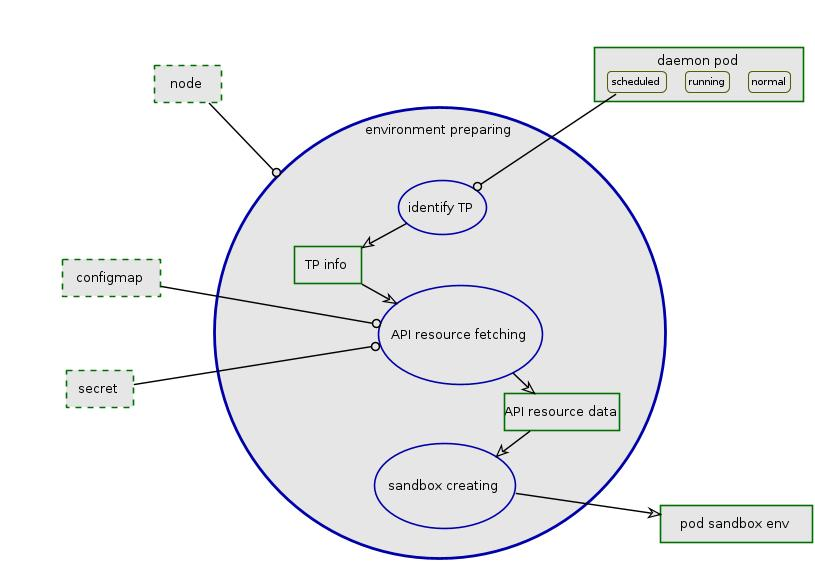
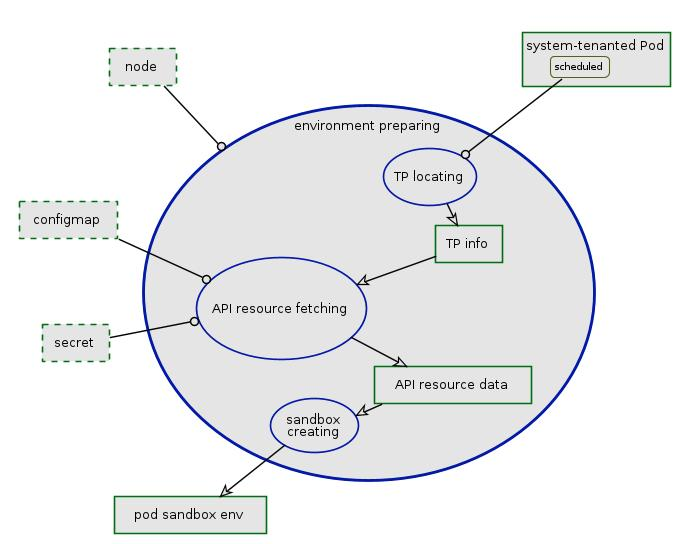
doc: system-tenant pod design

Changed region(s): [[0.0, 0.0312, 1.0, 1.0], [0.1504, 0.0625, 0.3009, 0.25], [0.361, 0.6562, 0.4513, 0.6875]]

diff --git a/docs/design-proposals/arch/system-tenant-pod.md b/docs/design-proposals/arch/system-tenant-pod.md
@@ -1,0 +1,89 @@
+# System-tenanted Pods in Arktos
+
+System-tenanted pods are pods that are of the special tenant, "system". These pods are typical for cluster infrastructual or management tasks.
+
+Due to the nature Arktos being a multiple-tenanted system, DaemonSet is only allowed in system tenant; only cluster admin is permitted to create/delete/update DaemonSet resources. DaemonSet pods are system-tenanted, too.
+
+This document describes what parts of Arktos need to have to support system-tenanted pods. 
+
+## What is not covered yet
+At this stage of Arktos, PVC/PV for storage volume is not fully supported - out of scope of this design.
+
+Analysis of the impact caused by adding/removing TP from scale-out system is not in its scope, either.
+
+## System-tenanted Pods
+In case of the tenant partition that manages system-tenanted resources fails, other tenant partitions, if applicable, are available for cluster admin to manage the resources of system tenant; the resources previously managed on the failed TP may not be updated, system functionality being degraded. There is possibility to recover the affected resoures to functioning TP, but it is out of our current design interests.
+
+Arranging system-tenant Pod and its supporting resources within the unit of TP as depicted above does not put unnecessary constraint of how system tenant being managed across TPs. Whether Arktos scale-out chooses to have multiple TPs with each being able to manage its own system tenant resources, or to have a single dedicated Partition for system tenant resources likely enhanced by some sort of HA, this design stands - as long as system-tenanted Pod and its supporting API resources are managed by the same TP.
+
+
+## System-tenanted Pods in Scale-up Arktos
+Scale-up Arktos has single master; system-tenanted Pods are supported.
+
+## System-tenanted Pods in Scale-out Arktos
+[Scale-out Arktos](arktos_scale_out.md) may have multiple tenant partitions and resource partitions; each of them has master components including API Server, controller manager, etc.
+
+System-tenanted Pods, like other resources, are named within the boundary of individual tenant server; it is possible for two or more pods have same tenant-namespace-name, which would confuse kubelet to have problem managing them.
+
+Usually a Pod requires other API resources to provision its runtime sandbox with specific environmental data. For instance, configmap resource is used to initialize as app config file, secret as app sensitive data. These supporting resources shall be at the same Tenant Partion as of the pod.
+
+On the node, kubelet gets notification of system-tenanted Pod's creation, then prepares environment for the Pod, finally starts the pod in the prepared environment. The environment preparation includes fetching the specified API resources (like secret, configmap) as defined in Pod spec and provisioning in form of files/data in node's filesystem. In order to ensure API resources are fetched from the proper tenant partition, kubelet shall maintain the mapping of system-tenanted Pod to tenant partition origin; whenever the needed resource of the Pod is fetched, kubelet shall lookup the mapping and use that of the proper tenant partition.
+
+Besides, when service is exposed out of system-tenanted pods, kube-proxy, if it is a component in the scale-out env, suffers the same name collision problem.
+
+### DaemonSet
+DaemonSet is managed by the DaemonSet controller of individual tenant server, and the DaemonSet pods (being system tenant) are CRUD accordingly. The Daemonset pods are named within the single API server; the name collision problem is with DaemonSet pods, too.
+
+Each node may typically run daemon Pods of all DaemonSet from all the TP's. These daemon Pods should not conflict with each other to compete for same system resources, e.g. no two are trying to set up network as CNI plugin; whether their DaemonSet names are same or not is immaterial.
+
+Providing a centralized DaemonSet management tool on top of all and every TP is convenience gain for cluster admin; however it is beyond the core design. The rudimentary utility using kubectl config context is able to mitigate before a better solution is available.
+
+### Alternatives
+We considered other options for DaemonSet in scale-out Arktos.
+
+**DaemonSet in Resource Partition**
+
+DaemonSet resource is managed combinely by all resource partitions; tenant partition is not involved. Each resource partition has its own copy of the DaemonSet resource; its DaemonSet controller and scheduler manage the DaemonSet in (local) scope of its Nodes.
+
+This architecture has some defects:
+* Lack of built-in mechanism to distribute and sync DaemonSet copies to all tenant partitions;
+* Increased operation complexity: multiple RP's each runs master controllers;
+* Decreased scheduler accuracy: scheduler of RP schedules daemon Pods which cannot have the resource allocation reflected in the scheduler of TP, which leads to inaccuracy of the deceived resources.
+* Overlap of TP/RP: Pod/configmap/secret may be managed by TP or RP - depending on whether they are DaemonSet related or not, which tarnishes the clear cut of TP/RP.
+
+**DaemonSet in Hybrid**
+
+This is a variant of the above-mentioned DS in RP: cluster admin manages DaemonSet at tenant partition; system implements a built-in distribution mechanism (DaemonSet distribution controller) to push DeamonSet change to all resource partitions.
+
+This architecture mitigates the DS sync problem, but it brings more incompatibility of scale-out and scale-up, as scale-up has no such sync in the first place.
+
+## Reequired Changes
+The minimum changes required to support system-tenanted Pods and DaemonSet of Arktos
+
+#### API Server (admission Controller)
+* The admission controller module to block non-system tenanted DaemonSet.
+* API Servers (at least of tenant partitions) enables the admission controller when it is started
+
+Below is the diagram of DaemonSet admission:
+<p align="center"> <img src="images/daemonset_OPD/daemonset-support-DS-creating-DSadding.jpg"> </p>
+
+
+#### Kubelet
+Kubelet shall be able to identify the API resources (configmap, secret, PVC etc) from the same tenant partition as the system-tenanted Pod to be started, in environment preparing process.
+
+Below is the diagram of kubelet environment preparing process:
+<p align="center"> <img src="images/daemonset_OPD/daemonset-support-DS-creating-podStarting-envPreparing.jpg"> </p>
+
+There are two significant required functionalities for kubelet, at high level:
+1. Keeping track of daemon Pod's TP origin.
+   <p/>One trivial way is maintaining a map in memory for daemon Pod by UUID to TP origin.
+   <p/>For regular tenanted Pods, either deriving TP based on tenant name or leveraging the origin tracking is fine. It is segguested to start with that regular tenanted Pods still use the simple TP-derived-from-tenant-name mechanism. It can be revisted in later the general system tenanted resource management design.
+2. Retrieving supporting resources by TP origin.
+   <p/>Secret and configmap resources each is managed via a local cached store being replenished by external API servers (TP's). Current store implementation simply identify TP by tenant name of the resource. To accomodate the the needed change, the cache store should accept requests to get resource with specified TP origin; it should be able to keep system-tenanted secret or configmap without losing their TP origins; also it should use the resource-specific TP origin to replenish the staled resource instead of the simple tenant-name derived one.
+   <p/>The specific detail the changes of store should be carefully considered before the kubelet module implementation.
+
+#### Kube-proxy
+In scale-out env, for services that are exposed from the system-tenanted Pods, kube-proxy shall be able to tell which TP a certain system-tenanted service is from and locate the endpoints from that TP only. Kube-proxy needs to have similar origin tracking mechanism.
+
+The TP origin is the significant new property of system-tenanted service nd endpoint, as in 
+<p align="center"> <img src="images/daemonset_OPD/kube-proxy-svc-ep-manage.jpg"> </p>
